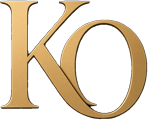
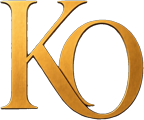
Rework the connect block to spec, add the tap-to-call QR
- CSS moved out of the page head into css/site.css, ahead of the light
  palette overrides so those still win
- Connect section moved to AFTER the existing contact section
- Sticky bar added to all 8 pages, not just the home page
- vercel.json added: /kelli-owens.vcf served as text/vcard with a
  download disposition
- QR (decodes to tel:+12816507592) as a desktop-only panel; phones
  already have the sticky bar
- Monogram replaced with the newer 673x561 artwork, header size regenerated

Claude-Session: https://claude.ai/code/session_01JndCRrQjWXmR55R9BuBnZ3

diff --git a/index.html b/index.html
@@ -16,63 +16,6 @@
 <link rel="preconnect" href="https://fonts.googleapis.com">
 <link rel="preconnect" href="https://fonts.gstatic.com" crossorigin>
 <link href="https://fonts.googleapis.com/css2?family=Cormorant+Garamond:ital,wght@0,300;0,400;0,500;1,400&family=Inter:wght@400;500;600&family=Pinyon+Script&display=swap" rel="stylesheet">
-<style>
-.kog-connect,.kog-bar{
-  /* Tokens must be declared on BOTH — .kog-bar is not a descendant of
-     .kog-connect, so it cannot inherit them. */
-  --kog-gold: var(--gold, #c9a961);
-  --kog-gold-br: var(--gold-br, #e3c684);
-  --kog-line: var(--line, #26231d);
-  --kog-card: var(--card, #131316);
-  --kog-ink: var(--ink, #f3efe6);
-  --kog-soft: var(--ink-soft, #9b9384);
-  --kog-dim: rgba(201,169,97,.28);
-}
-.kog-connect{padding:44px 0}
-.kog-connect .kog-kicker{
-  font-size:11px;letter-spacing:.26em;text-transform:uppercase;color:var(--kog-gold);
-  font-weight:700;display:inline-block;padding-bottom:13px;border-bottom:1px solid var(--kog-dim);
-  margin-bottom:18px}
-.kog-connect h2{
-  font-family:Georgia,"Iowan Old Style","Times New Roman",serif;font-weight:400;
-  font-size:clamp(1.5rem,3vw,2.1rem);margin:0;line-height:1.15;color:var(--kog-ink)}
-.kog-connect .kog-lede{
-  color:var(--kog-soft);max-width:56ch;margin:14px 0 0;line-height:1.65}
-
-.kog-actions{
-  display:grid;grid-template-columns:repeat(auto-fit,minmax(190px,1fr));
-  gap:1px;background:var(--kog-line);border:1px solid var(--kog-line);margin-top:28px}
-.kog-act{
-  display:flex;flex-direction:column;gap:5px;background:var(--kog-card);
-  padding:20px 22px;text-decoration:none;color:var(--kog-ink);transition:background .16s}
-.kog-act:hover,.kog-act:focus-visible{background:#1a1a1e}
-.kog-act:focus-visible{outline:2px solid var(--kog-gold-br);outline-offset:-2px}
-.kog-act .kog-do{
-  font-size:10.5px;letter-spacing:.17em;text-transform:uppercase;color:var(--kog-gold)}
-.kog-act .kog-val{
-  font-family:Georgia,"Iowan Old Style",serif;font-size:1.06rem;color:var(--kog-gold-br)}
-.kog-act .kog-note{font-size:11.5px;color:var(--kog-soft);line-height:1.5}
-
-/* sticky mobile bar */
-.kog-bar{
-  position:fixed;left:0;right:0;bottom:0;z-index:60;display:none;
-  grid-template-columns:1fr 1fr;gap:1px;background:var(--kog-line);
-  border-top:1px solid var(--kog-dim);
-  padding-bottom:env(safe-area-inset-bottom,0)}
-.kog-bar a{
-  display:block;text-align:center;padding:15px 10px;text-decoration:none;
-  font-size:12px;letter-spacing:.14em;text-transform:uppercase;font-weight:600}
-.kog-bar .kog-call{background:var(--kog-gold);color:#0a0a0c}
-.kog-bar .kog-text{background:#000;color:var(--kog-gold)}
-.kog-bar a:focus-visible{outline:2px solid var(--kog-gold-br);outline-offset:-3px}
-
-@media(max-width:700px){
-  .kog-bar{display:grid}
-  body{padding-bottom:58px}
-  .kog-act{padding:17px 18px}
-}
-@media(prefers-reduced-motion:reduce){.kog-act{transition:none}}
-</style>
 <link rel="stylesheet" href="./css/site.css">
 <script type="application/ld+json">
 {
@@ -478,6 +421,30 @@
 </div></section>
 
 <!-- ============================ CONTACT ============================ -->
+<section id="contact" class="sec-navy"><div class="wrap">
+  <div class="kicker kicker-line">Talk to me</div>
+  <h2 style="margin-top:22px">Ask me the hard question first.</h2>
+  <p class="lede">The one you think will annoy me. That is usually the one worth
+  answering, and it is the fastest way to find out whether we should work together.</p>
+
+  <div class="cbox">
+    <div>
+      <p class="name script" style="font-size:2rem">Kelli Owens</p>
+      <p>Texas REALTOR® · License #616346</p>
+      <p>Commissioned Remote Online Notary, State of Texas</p>
+      <p><a href="tel:2816507592">281-650-7592</a></p>
+      <p><a href="mailto:kelli.owens@thekorealtygroup.com">kelli.owens@thekorealtygroup.com</a></p>
+    </div>
+    <div>
+      <p class="name">The Sears Group</p>
+      <p>Licensed Texas Real Estate Broker · TREC #9008344</p>
+      <p>Christopher Sears, Designated Broker · TREC #457682</p>
+      <p><a href="tel:7133570068">713-357-0068</a></p>
+      <p><a href="mailto:sell@searsgrp.com">sell@searsgrp.com</a></p>
+    </div>
+  </div>
+</div></section>
+
 <section class="kog-connect" id="connect">
   <div class="wrap">
     <span class="kog-kicker">Connect</span>
@@ -507,32 +474,17 @@
         <span class="kog-note">Name, number, email — one tap</span>
       </a>
     </div>
+
+    <div class="kog-qr">
+      <img src="/img/qr-call-kelli.png" width="104" height="104"
+           alt="QR code that dials 281-650-7592">
+      <div>
+        <b>On a laptop?</b>
+        <span>Point your phone camera at this and it dials me.<br>No app, no typing the number.</span>
+      </div>
+    </div>
   </div>
 </section>
-
-<section id="contact" class="sec-navy"><div class="wrap">
-  <div class="kicker kicker-line">Talk to me</div>
-  <h2 style="margin-top:22px">Ask me the hard question first.</h2>
-  <p class="lede">The one you think will annoy me. That is usually the one worth
-  answering, and it is the fastest way to find out whether we should work together.</p>
-
-  <div class="cbox">
-    <div>
-      <p class="name script" style="font-size:2rem">Kelli Owens</p>
-      <p>Texas REALTOR® · License #616346</p>
-      <p>Commissioned Remote Online Notary, State of Texas</p>
-      <p><a href="tel:2816507592">281-650-7592</a></p>
-      <p><a href="mailto:kelli.owens@thekorealtygroup.com">kelli.owens@thekorealtygroup.com</a></p>
-    </div>
-    <div>
-      <p class="name">The Sears Group</p>
-      <p>Licensed Texas Real Estate Broker · TREC #9008344</p>
-      <p>Christopher Sears, Designated Broker · TREC #457682</p>
-      <p><a href="tel:7133570068">713-357-0068</a></p>
-      <p><a href="mailto:sell@searsgrp.com">sell@searsgrp.com</a></p>
-    </div>
-  </div>
-</div></section>
 
 <footer class="foot"><div class="wrap">
   <div class="foot-nav">

diff --git a/css/site.css b/css/site.css
@@ -354,6 +354,74 @@ section{padding:96px 0}
 .hp{position:absolute!important;left:-9999px!important;width:1px!important;height:1px!important;
   overflow:hidden!important}
 
+/* ---------- connect block + sticky mobile bar ---------- */
+.kog-connect,.kog-bar{
+  /* Tokens must be declared on BOTH — .kog-bar is not a descendant of
+     .kog-connect, so it cannot inherit them. */
+  --kog-gold: var(--gold, #c9a961);
+  --kog-gold-br: var(--gold-br, #e3c684);
+  --kog-line: var(--line, #26231d);
+  --kog-card: var(--card, #131316);
+  --kog-ink: var(--ink, #f3efe6);
+  --kog-soft: var(--ink-soft, #9b9384);
+  --kog-dim: rgba(201,169,97,.28);
+}
+.kog-connect{padding:44px 0}
+.kog-connect .kog-kicker{
+  font-size:11px;letter-spacing:.26em;text-transform:uppercase;color:var(--kog-gold);
+  font-weight:700;display:inline-block;padding-bottom:13px;border-bottom:1px solid var(--kog-dim);
+  margin-bottom:18px}
+.kog-connect h2{
+  font-family:Georgia,"Iowan Old Style","Times New Roman",serif;font-weight:400;
+  font-size:clamp(1.5rem,3vw,2.1rem);margin:0;line-height:1.15;color:var(--kog-ink)}
+.kog-connect .kog-lede{
+  color:var(--kog-soft);max-width:56ch;margin:14px 0 0;line-height:1.65}
+
+.kog-actions{
+  display:grid;grid-template-columns:repeat(auto-fit,minmax(190px,1fr));
+  gap:1px;background:var(--kog-line);border:1px solid var(--kog-line);margin-top:28px}
+.kog-act{
+  display:flex;flex-direction:column;gap:5px;background:var(--kog-card);
+  padding:20px 22px;text-decoration:none;color:var(--kog-ink);transition:background .16s}
+.kog-act:hover,.kog-act:focus-visible{background:#1a1a1e}
+.kog-act:focus-visible{outline:2px solid var(--kog-gold-br);outline-offset:-2px}
+.kog-act .kog-do{
+  font-size:10.5px;letter-spacing:.17em;text-transform:uppercase;color:var(--kog-gold)}
+.kog-act .kog-val{
+  font-family:Georgia,"Iowan Old Style",serif;font-size:1.06rem;color:var(--kog-gold-br)}
+.kog-act .kog-note{font-size:11.5px;color:var(--kog-soft);line-height:1.5}
+
+/* sticky mobile bar */
+.kog-bar{
+  position:fixed;left:0;right:0;bottom:0;z-index:60;display:none;
+  grid-template-columns:1fr 1fr;gap:1px;background:var(--kog-line);
+  border-top:1px solid var(--kog-dim);
+  padding-bottom:env(safe-area-inset-bottom,0)}
+.kog-bar a{
+  display:block;text-align:center;padding:15px 10px;text-decoration:none;
+  font-size:12px;letter-spacing:.14em;text-transform:uppercase;font-weight:600}
+.kog-bar .kog-call{background:var(--kog-gold);color:#0a0a0c}
+.kog-bar .kog-text{background:#000;color:var(--kog-gold)}
+.kog-bar a:focus-visible{outline:2px solid var(--kog-gold-br);outline-offset:-3px}
+
+@media(max-width:700px){
+  .kog-bar{display:grid}
+  body{padding-bottom:58px}
+  .kog-act{padding:17px 18px}
+}
+@media(prefers-reduced-motion:reduce){.kog-act{transition:none}}
+
+/* QR is desktop-only: phone visitors already have the sticky call bar,
+   and a tel: code is pointless on the device that would dial it. */
+.kog-qr{display:flex;align-items:center;gap:18px;margin-top:22px;
+  padding:16px 20px;border:1px solid var(--kog-line);background:var(--kog-card)}
+.kog-qr img{width:104px;height:104px;display:block;background:#fff;padding:7px;
+  border-radius:2px}
+.kog-qr b{display:block;font-size:10.5px;letter-spacing:.17em;text-transform:uppercase;
+  color:var(--kog-gold);font-weight:600;margin-bottom:5px}
+.kog-qr span{font-size:12.5px;color:var(--kog-soft);line-height:1.55}
+@media(max-width:700px){.kog-qr{display:none}}
+
 /* ---------- connect block: retune for the light palette ----------
    The block ships dark-first. These override its own tokens so the
    cards read correctly on cream, and align it to Cormorant/Inter. */
@@ -374,3 +442,6 @@ section{padding:96px 0}
 .kog-bar .kog-text{background:var(--navy-deep);color:var(--gold-br)}
 .kog-bar .kog-call{color:var(--navy-deep)}
 @media(max-width:760px){.kog-connect{padding:52px 0}}
+.kog-connect .kog-qr{background:var(--paper);border-color:var(--line)}
+.kog-connect .kog-qr b{color:#8A6A2A}
+.kog-connect .kog-qr img{border:1px solid var(--line)}

diff --git a/guides/flood-zone-x-x500-ae-galveston-county.html b/guides/flood-zone-x-x500-ae-galveston-county.html
@@ -197,5 +197,9 @@ t.onclick=()=>{const o=n.classList.toggle('open');t.setAttribute('aria-expanded'
 n.querySelectorAll('a').forEach(a=>a.onclick=()=>{n.classList.remove('open');t.textContent='\u2630';t.setAttribute('aria-expanded','false')});
 </script>
 <script defer src="../js/forms.js"></script>
+<nav class="kog-bar" aria-label="Contact Kelli">
+  <a class="kog-call" href="tel:+12816507592">Call</a>
+  <a class="kog-text" href="sms:+12816507592">Text</a>
+</nav>
 </body>
 </html>

diff --git a/guides/hoa-dues-what-they-actually-cover.html b/guides/hoa-dues-what-they-actually-cover.html
@@ -188,5 +188,9 @@ t.onclick=()=>{const o=n.classList.toggle('open');t.setAttribute('aria-expanded'
 n.querySelectorAll('a').forEach(a=>a.onclick=()=>{n.classList.remove('open');t.textContent='\u2630';t.setAttribute('aria-expanded','false')});
 </script>
 <script defer src="../js/forms.js"></script>
+<nav class="kog-bar" aria-label="Contact Kelli">
+  <a class="kog-call" href="tel:+12816507592">Call</a>
+  <a class="kog-text" href="sms:+12816507592">Text</a>
+</nav>
 </body>
 </html>

diff --git a/guides/index.html b/guides/index.html
@@ -119,5 +119,9 @@ t.onclick=()=>{const o=n.classList.toggle('open');t.setAttribute('aria-expanded'
 n.querySelectorAll('a').forEach(a=>a.onclick=()=>{n.classList.remove('open');t.textContent='\u2630';t.setAttribute('aria-expanded','false')});
 </script>
 <script defer src="../js/forms.js"></script>
+<nav class="kog-bar" aria-label="Contact Kelli">
+  <a class="kog-call" href="tel:+12816507592">Call</a>
+  <a class="kog-text" href="sms:+12816507592">Text</a>
+</nav>
 </body>
 </html>

diff --git a/guides/mud-pid-lid-texas-what-they-cost.html b/guides/mud-pid-lid-texas-what-they-cost.html
@@ -251,5 +251,9 @@ t.onclick=()=>{const o=n.classList.toggle('open');t.setAttribute('aria-expanded'
 n.querySelectorAll('a').forEach(a=>a.onclick=()=>{n.classList.remove('open');t.textContent='\u2630';t.setAttribute('aria-expanded','false')});
 </script>
 <script defer src="../js/forms.js"></script>
+<nav class="kog-bar" aria-label="Contact Kelli">
+  <a class="kog-call" href="tel:+12816507592">Call</a>
+  <a class="kog-text" href="sms:+12816507592">Text</a>
+</nav>
 </body>
 </html>

diff --git a/guides/why-square-footage-doesnt-match.html b/guides/why-square-footage-doesnt-match.html
@@ -190,5 +190,9 @@ t.onclick=()=>{const o=n.classList.toggle('open');t.setAttribute('aria-expanded'
 n.querySelectorAll('a').forEach(a=>a.onclick=()=>{n.classList.remove('open');t.textContent='\u2630';t.setAttribute('aria-expanded','false')});
 </script>
 <script defer src="../js/forms.js"></script>
+<nav class="kog-bar" aria-label="Contact Kelli">
+  <a class="kog-call" href="tel:+12816507592">Call</a>
+  <a class="kog-text" href="sms:+12816507592">Text</a>
+</nav>
 </body>
 </html>

diff --git a/neighborhoods/south-shore-harbour.html b/neighborhoods/south-shore-harbour.html
@@ -206,5 +206,9 @@ t.onclick=()=>{const o=n.classList.toggle('open');t.setAttribute('aria-expanded'
 n.querySelectorAll('a').forEach(a=>a.onclick=()=>{n.classList.remove('open');t.textContent='☰';t.setAttribute('aria-expanded','false')});
 </script>
 <script defer src="../js/forms.js"></script>
+<nav class="kog-bar" aria-label="Contact Kelli">
+  <a class="kog-call" href="tel:+12816507592">Call</a>
+  <a class="kog-text" href="sms:+12816507592">Text</a>
+</nav>
 </body>
 </html>

diff --git a/closed-from-anywhere.html b/closed-from-anywhere.html
@@ -303,5 +303,9 @@ t.onclick=()=>{const o=n.classList.toggle('open');t.setAttribute('aria-expanded'
 n.querySelectorAll('a').forEach(a=>a.onclick=()=>{n.classList.remove('open');t.textContent='☰';t.setAttribute('aria-expanded','false')});
 </script>
 <script defer src="./js/forms.js"></script>
+<nav class="kog-bar" aria-label="Contact Kelli">
+  <a class="kog-call" href="tel:+12816507592">Call</a>
+  <a class="kog-text" href="sms:+12816507592">Text</a>
+</nav>
 </body>
 </html>
